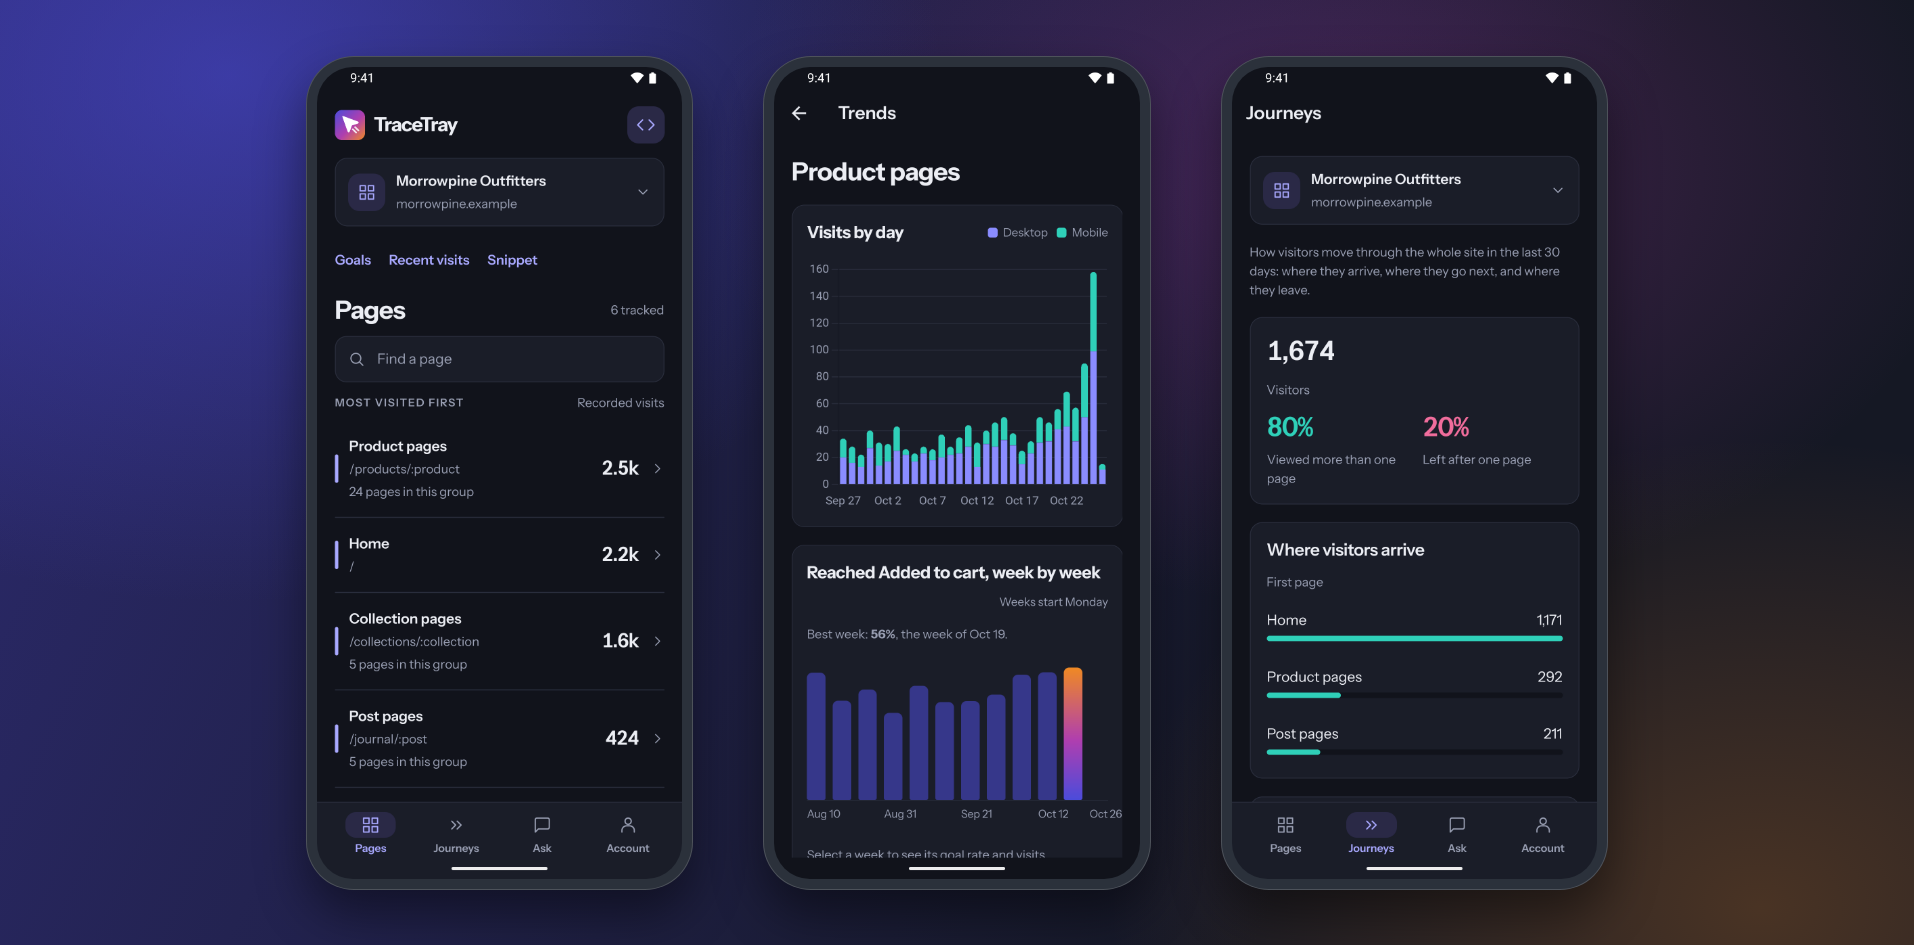
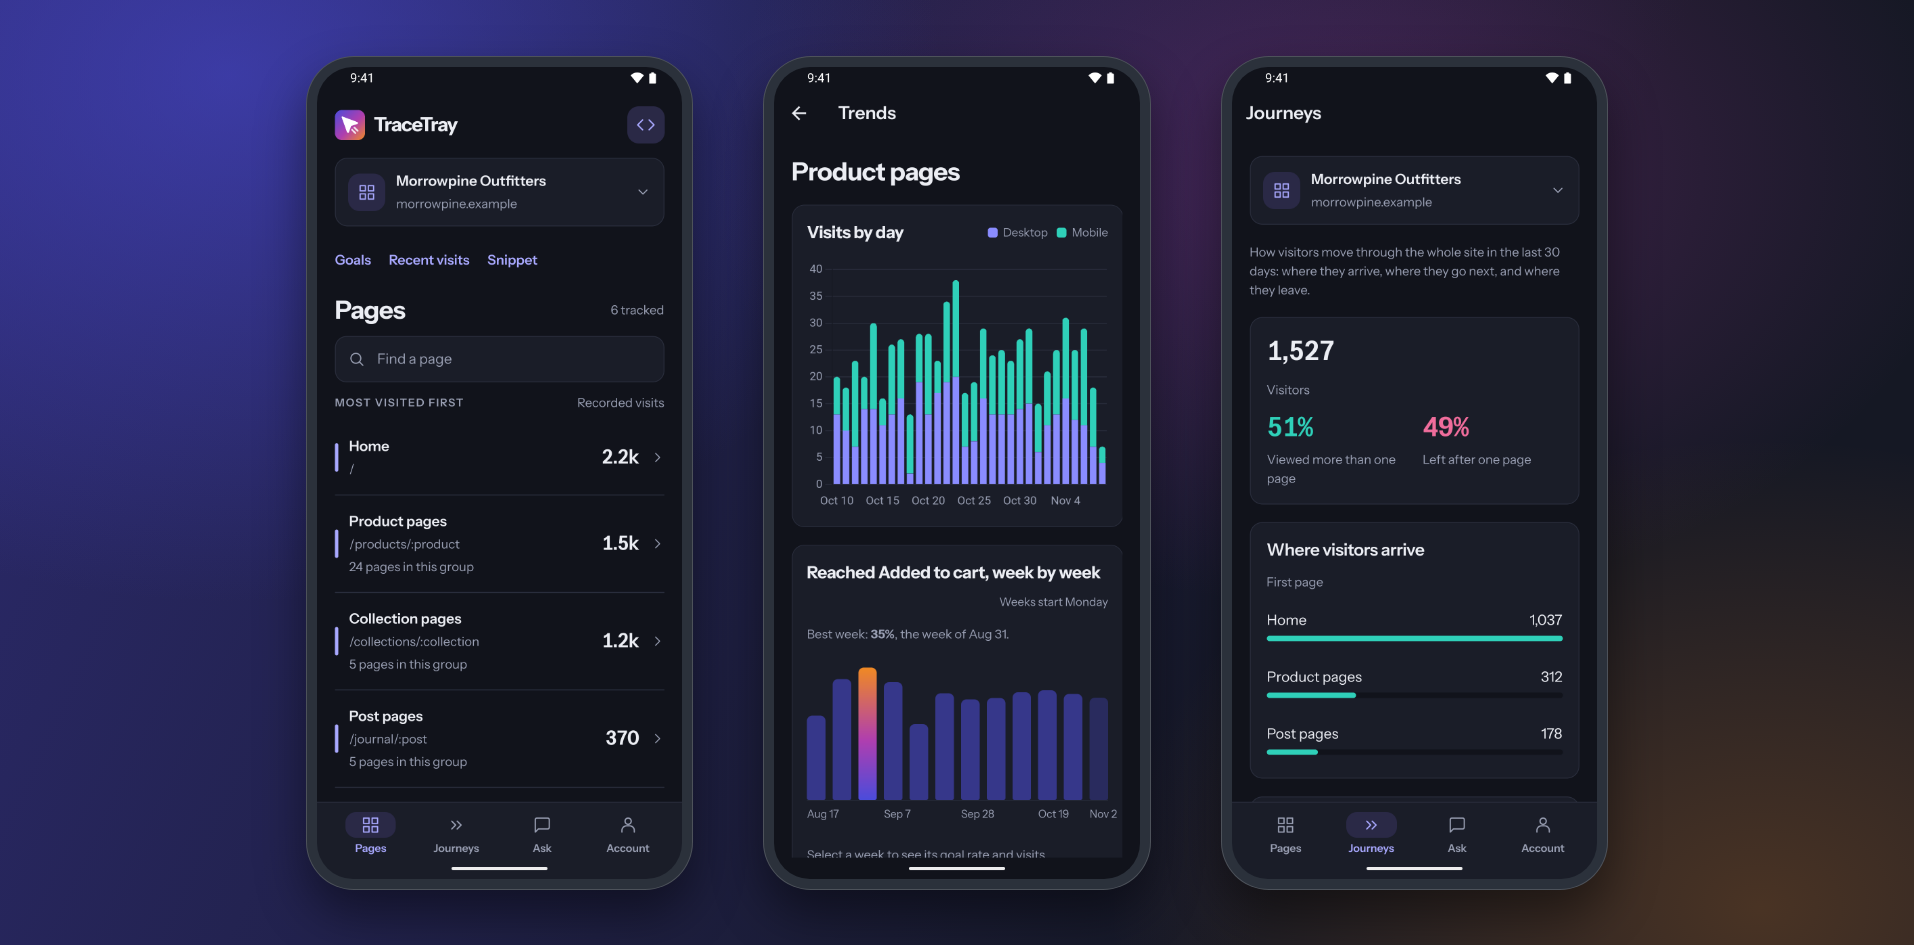
Refresh the TraceTray screenshots and add the group features
- Desktop and phone shots retaken from the new demo
- New shots of how the groups changed, the method behind it, and attention by section
- The second phone set now shows groups, changes and attention
- The blurb mentions plain-language explanations and Ask instead of AI-generated explanations

diff --git a/index.html b/index.html
@@ -920,8 +920,14 @@
                   </figure>
                   <figure>
                     <img
-                      alt="TraceTray visitor groups for the demo product pages, each measured against the page average"
+                      alt="TraceTray visitor groups for the demo product pages, each judged against the page's goal, with what goes with reaching it"
                       src="assets/images/tracetray/desktop-03-visitors.png"
+                    />
+                  </figure>
+                  <figure>
+                    <img
+                      alt="TraceTray map of how the demo homepage's visitor groups changed over time, and why the goal rate moved"
+                      src="assets/images/tracetray/desktop-09-changes.png"
                     />
                   </figure>
                   <figure>
@@ -932,7 +938,7 @@
                   </figure>
                   <figure>
                     <img
-                      alt="TraceTray attention shaded over a picture of the demo homepage"
+                      alt="TraceTray reach, time on screen and clicks for each section of the demo product page"
                       src="assets/images/tracetray/desktop-05-attention.png"
                     />
                   </figure>
@@ -952,6 +958,12 @@
                     <img
                       alt="TraceTray Ask answering why some visitors do not add to cart"
                       src="assets/images/tracetray/desktop-08-ask.png"
+                    />
+                  </figure>
+                  <figure>
+                    <img
+                      alt="TraceTray method details behind the group map: decomposition with intervals, group checks and what sets the groups apart"
+                      src="assets/images/tracetray/desktop-10-method.png"
                     />
                   </figure>
                 </div>
@@ -1062,8 +1074,16 @@
                     src="assets/images/tracetray/mobile-05-overview.png"
                   />
                   <img
-                    alt="TraceTray mobile visitor groups for the product pages"
+                    alt="TraceTray mobile visitor group card with its goal rate and what goes with reaching the goal"
                     src="assets/images/tracetray/mobile-06-groups.png"
+                  />
+                  <img
+                    alt="TraceTray mobile map of how the homepage's visitor groups changed over time"
+                    src="assets/images/tracetray/mobile-07-changes.png"
+                  />
+                  <img
+                    alt="TraceTray mobile attention: reach, time on screen and clicks over a picture of the product page"
+                    src="assets/images/tracetray/mobile-08-attention.png"
                   />
                 </div>
               </div>
@@ -1087,9 +1107,9 @@
               attention, hesitation, movement, and engagement.
             </p>
             <p>
-              The dashboard brings those results together with visual summaries
-              and AI-generated explanations to make the analysis easier to
-              interpret. Site owners set things up on the web, and an Android
+              The dashboard brings those results together with visual summaries,
+              plain-language explanations and an Ask feature that answers
+              questions from your own numbers. Site owners set things up on the web, and an Android
               app lets them check in on their pages, journeys and visitor groups
               from their phone.
             </p>

diff --git a/scripts/mobile-sets.html b/scripts/mobile-sets.html
@@ -77,7 +77,7 @@
           folder: "tracetray/mobile-",
           groups: [
             ["01-pages", "02-trends", "03-journeys"],
-            ["04-ask", "05-overview", "06-groups"],
+            ["06-groups", "07-changes", "08-attention"],
           ],
         },
         wikiracr: {
